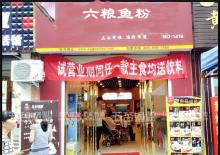
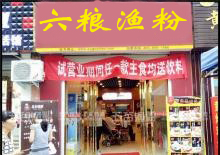
Rev_20170219

Changed region(s): [[0.1636, 0.0, 0.8455, 0.2839]]

diff --git a/index.html b/index.html
@@ -1,8 +1,8 @@
 <html xmlns="http://www.w3.org/1999/xhtml"><head><meta http-equiv="Content-Type" content="text/html; charset=UTF-8">
 
 <title>全国连锁六粮渔粉官方网站_郑州市东海渔港餐饮管理有限公司</title>
-<meta name="keywords" content="六粮渔粉,六粮渔粉官网,六粮鱼粉,五味草堂,六粮面,粗粮渔粉,鱼粉加盟,粗粮细作,米粉加盟,快餐加盟,六粮杂粮,郑州市东海渔港餐饮管理有限公司,六粮杂粮米粉">
-<meta name="description" content="中国六粮鱼粉原创品牌，请认准六粮渔粉注册商标品牌，自主研发，谨防假冒。全国免费热线：400-000-000，郑州市东海渔港餐饮管理有限公司。">
+<meta name="keywords" content="六粮渔粉,六粮渔粉官网,六粮渔粉,五味草堂,六粮面,粗粮渔粉,渔粉加盟,粗粮细作,米粉加盟,快餐加盟,六粮杂粮,郑州市东海渔港餐饮管理有限公司,六粮杂粮米粉">
+<meta name="description" content="中国六粮渔粉原创品牌，请认准六粮渔粉注册商标品牌，自主研发，谨防假冒。全国免费热线：400-000-000，郑州市东海渔港餐饮管理有限公司。">
 <!--<link rel="icon" href="http://www.liuliangyufen.tk" type="image/x-icon" />-->
 <link rel="shortcut icon" href="http://www.liuliangyufen.tk" type="image/x-icon">
 <link type="text/css" rel="stylesheet" href="./全国连锁六粮渔粉官方网站_郑州市东海渔港餐饮管理有限公司_files/base.css">
@@ -78,10 +78,10 @@
   	<div class="mwcd" style="overflow: hidden; position: relative;">
     	<h3 class="boxTitle">
       	<a class="catName" href="http://www.liuliangyufen.tk">美味菜单</a>
-        <span class="desc">六粮与鱼的世界，只为您所喜爱</span>
+        <span class="desc">六粮与渔的世界，只为您所喜爱</span>
       	<a class="more" href="http://www.liuliangyufen.tk">更多&gt;&gt;</a>
       </h3>
-            <ul style="margin: 0px; padding: 0px; overflow: hidden; position: relative; list-style: none; width: 17280px; left: -4184px;"><li style="position: relative; overflow: hidden; float: left;"><a><img src="./全国连锁六粮渔粉官方网站_郑州市东海渔港餐饮管理有限公司_files/thumb_220_155_20150720111814963.jpg" alt="六粮玉米粉"><p>六粮玉米粉</p></a></li><li style="position: relative; overflow: hidden; float: left;"><a><img src="./全国连锁六粮渔粉官方网站_郑州市东海渔港餐饮管理有限公司_files/thumb_220_155_20150720111946775.jpg" alt="六粮大米粉"><p>六粮大米粉</p></a></li><li style="position: relative; overflow: hidden; float: left;"><a><img src="./全国连锁六粮渔粉官方网站_郑州市东海渔港餐饮管理有限公司_files/thumb_220_155_20150720112059956.jpg" alt="六粮小米粉"><p>六粮小米粉</p></a></li><li style="position: relative; overflow: hidden; float: left;"><a><img src="./全国连锁六粮渔粉官方网站_郑州市东海渔港餐饮管理有限公司_files/thumb_220_155_20150720112218170.jpg" alt="六粮荞麦粉"><p>六粮荞麦粉</p></a></li><li style="position: relative; overflow: hidden; float: left;"><a><img src="./全国连锁六粮渔粉官方网站_郑州市东海渔港餐饮管理有限公司_files/thumb_220_155_20150720112316111.jpg" alt="六粮高粱粉"><p>六粮高粱粉</p></a></li><li style="position: relative; overflow: hidden; float: left;"><a><img src="./全国连锁六粮渔粉官方网站_郑州市东海渔港餐饮管理有限公司_files/yufen1.jpg" alt="六粮鲜香玉米粉"><p>六粮招牌米粉</p></a></li><li style="position: relative; overflow: hidden; float: left;"><a><img src="./全国连锁六粮渔粉官方网站_郑州市东海渔港餐饮管理有限公司_files/yufen2.jpg" alt="六粮鲜香玉米粉"><p>六粮原味米粉</p></a></li><li style="position: relative; overflow: hidden; float: left;"><a><img src="./全国连锁六粮渔粉官方网站_郑州市东海渔港餐饮管理有限公司_files/yufen3.jpg" alt="六粮鲜香玉米粉"><p>六粮麻辣米粉</p></a></li><li style="position: relative; overflow: hidden; float: left;"><a><img src="./全国连锁六粮渔粉官方网站_郑州市东海渔港餐饮管理有限公司_files/yufen4.jpg" alt="六粮鲜香玉米粉"><p>六粮酸辣米粉</p></a></li><li style="position: relative; overflow: hidden; float: left;"><a><img src="./全国连锁六粮渔粉官方网站_郑州市东海渔港餐饮管理有限公司_files/yufen5.jpg" alt="六粮鲜香玉米粉"><p>六粮鱼杂米粉</p></a></li></ul>
+            <ul style="margin: 0px; padding: 0px; overflow: hidden; position: relative; list-style: none; width: 17280px; left: -4184px;"><li style="position: relative; overflow: hidden; float: left;"><a><img src="./全国连锁六粮渔粉官方网站_郑州市东海渔港餐饮管理有限公司_files/thumb_220_155_20150720111814963.jpg" alt="六粮玉米粉"><p>六粮玉米粉</p></a></li><li style="position: relative; overflow: hidden; float: left;"><a><img src="./全国连锁六粮渔粉官方网站_郑州市东海渔港餐饮管理有限公司_files/thumb_220_155_20150720111946775.jpg" alt="六粮大米粉"><p>六粮大米粉</p></a></li><li style="position: relative; overflow: hidden; float: left;"><a><img src="./全国连锁六粮渔粉官方网站_郑州市东海渔港餐饮管理有限公司_files/thumb_220_155_20150720112059956.jpg" alt="六粮小米粉"><p>六粮小米粉</p></a></li><li style="position: relative; overflow: hidden; float: left;"><a><img src="./全国连锁六粮渔粉官方网站_郑州市东海渔港餐饮管理有限公司_files/thumb_220_155_20150720112218170.jpg" alt="六粮荞麦粉"><p>六粮荞麦粉</p></a></li><li style="position: relative; overflow: hidden; float: left;"><a><img src="./全国连锁六粮渔粉官方网站_郑州市东海渔港餐饮管理有限公司_files/thumb_220_155_20150720112316111.jpg" alt="六粮高粱粉"><p>六粮高粱粉</p></a></li><li style="position: relative; overflow: hidden; float: left;"><a><img src="./全国连锁六粮渔粉官方网站_郑州市东海渔港餐饮管理有限公司_files/yufen1.jpg" alt="六粮鲜香玉米粉"><p>六粮招牌米粉</p></a></li><li style="position: relative; overflow: hidden; float: left;"><a><img src="./全国连锁六粮渔粉官方网站_郑州市东海渔港餐饮管理有限公司_files/yufen2.jpg" alt="六粮鲜香玉米粉"><p>六粮原味米粉</p></a></li><li style="position: relative; overflow: hidden; float: left;"><a><img src="./全国连锁六粮渔粉官方网站_郑州市东海渔港餐饮管理有限公司_files/yufen3.jpg" alt="六粮鲜香玉米粉"><p>六粮麻辣米粉</p></a></li><li style="position: relative; overflow: hidden; float: left;"><a><img src="./全国连锁六粮渔粉官方网站_郑州市东海渔港餐饮管理有限公司_files/yufen4.jpg" alt="六粮鲜香玉米粉"><p>六粮酸辣米粉</p></a></li><li style="position: relative; overflow: hidden; float: left;"><a><img src="./全国连锁六粮渔粉官方网站_郑州市东海渔港餐饮管理有限公司_files/yufen5.jpg" alt="六粮鲜香玉米粉"><p>六粮渔杂米粉</p></a></li></ul>
           
     </div>
     <!-- mwcd end -->
